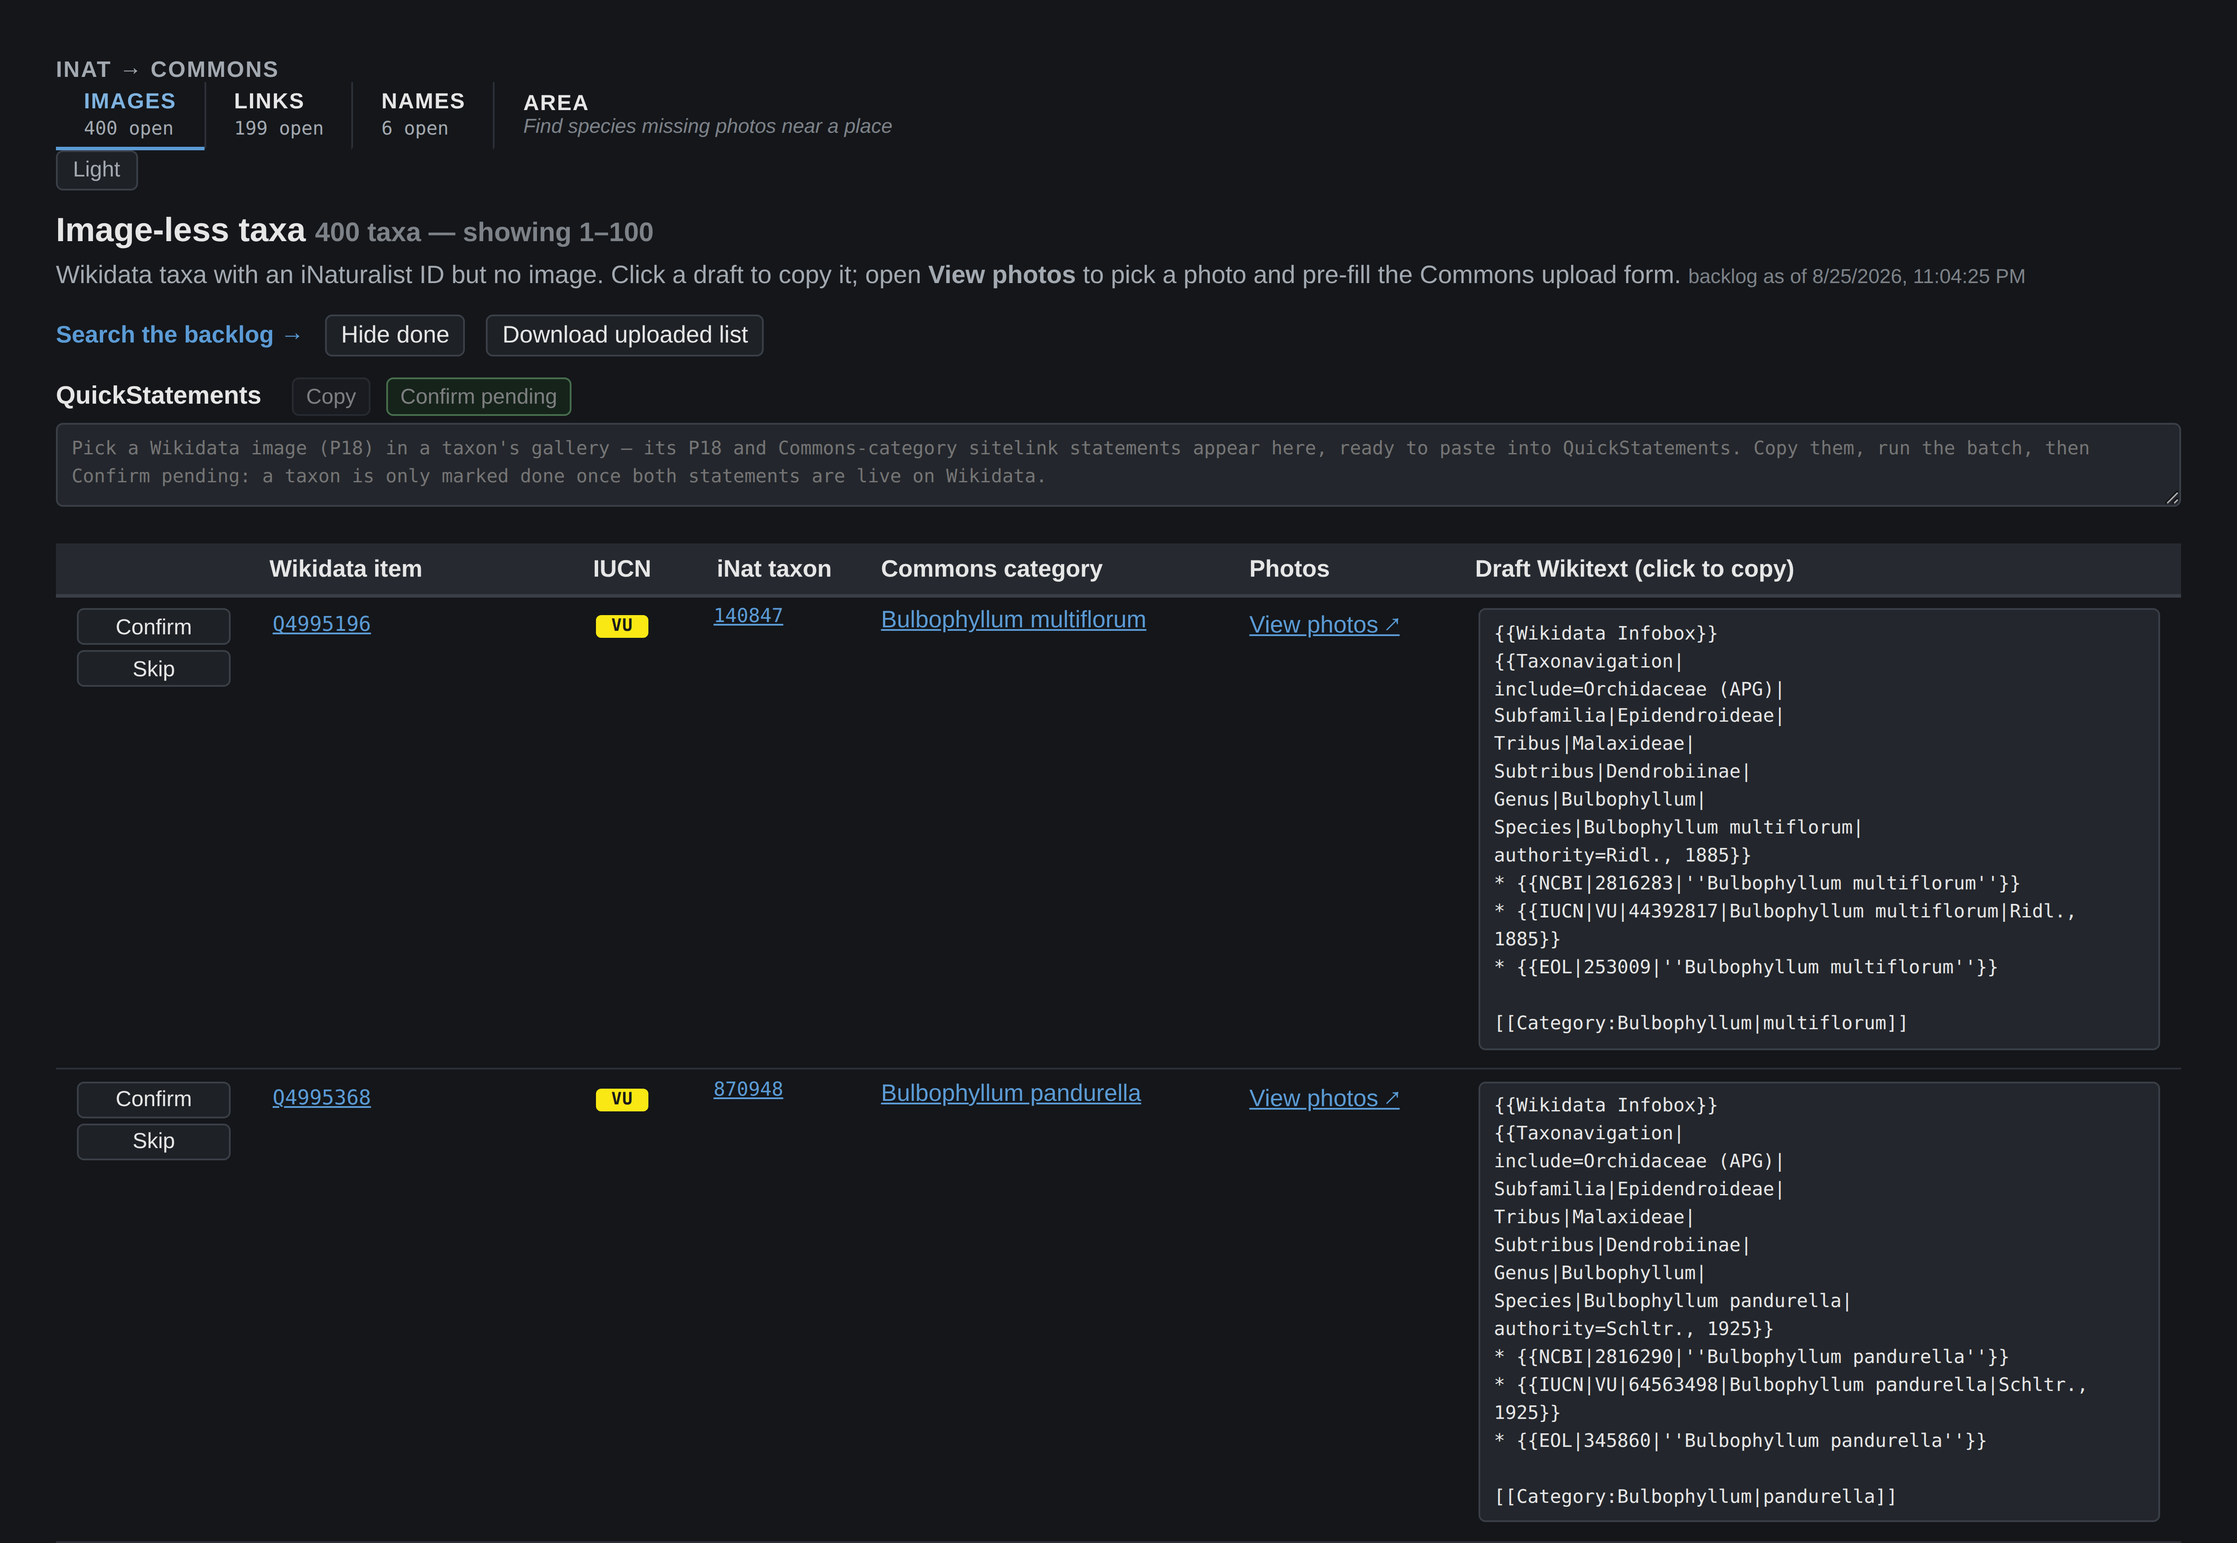
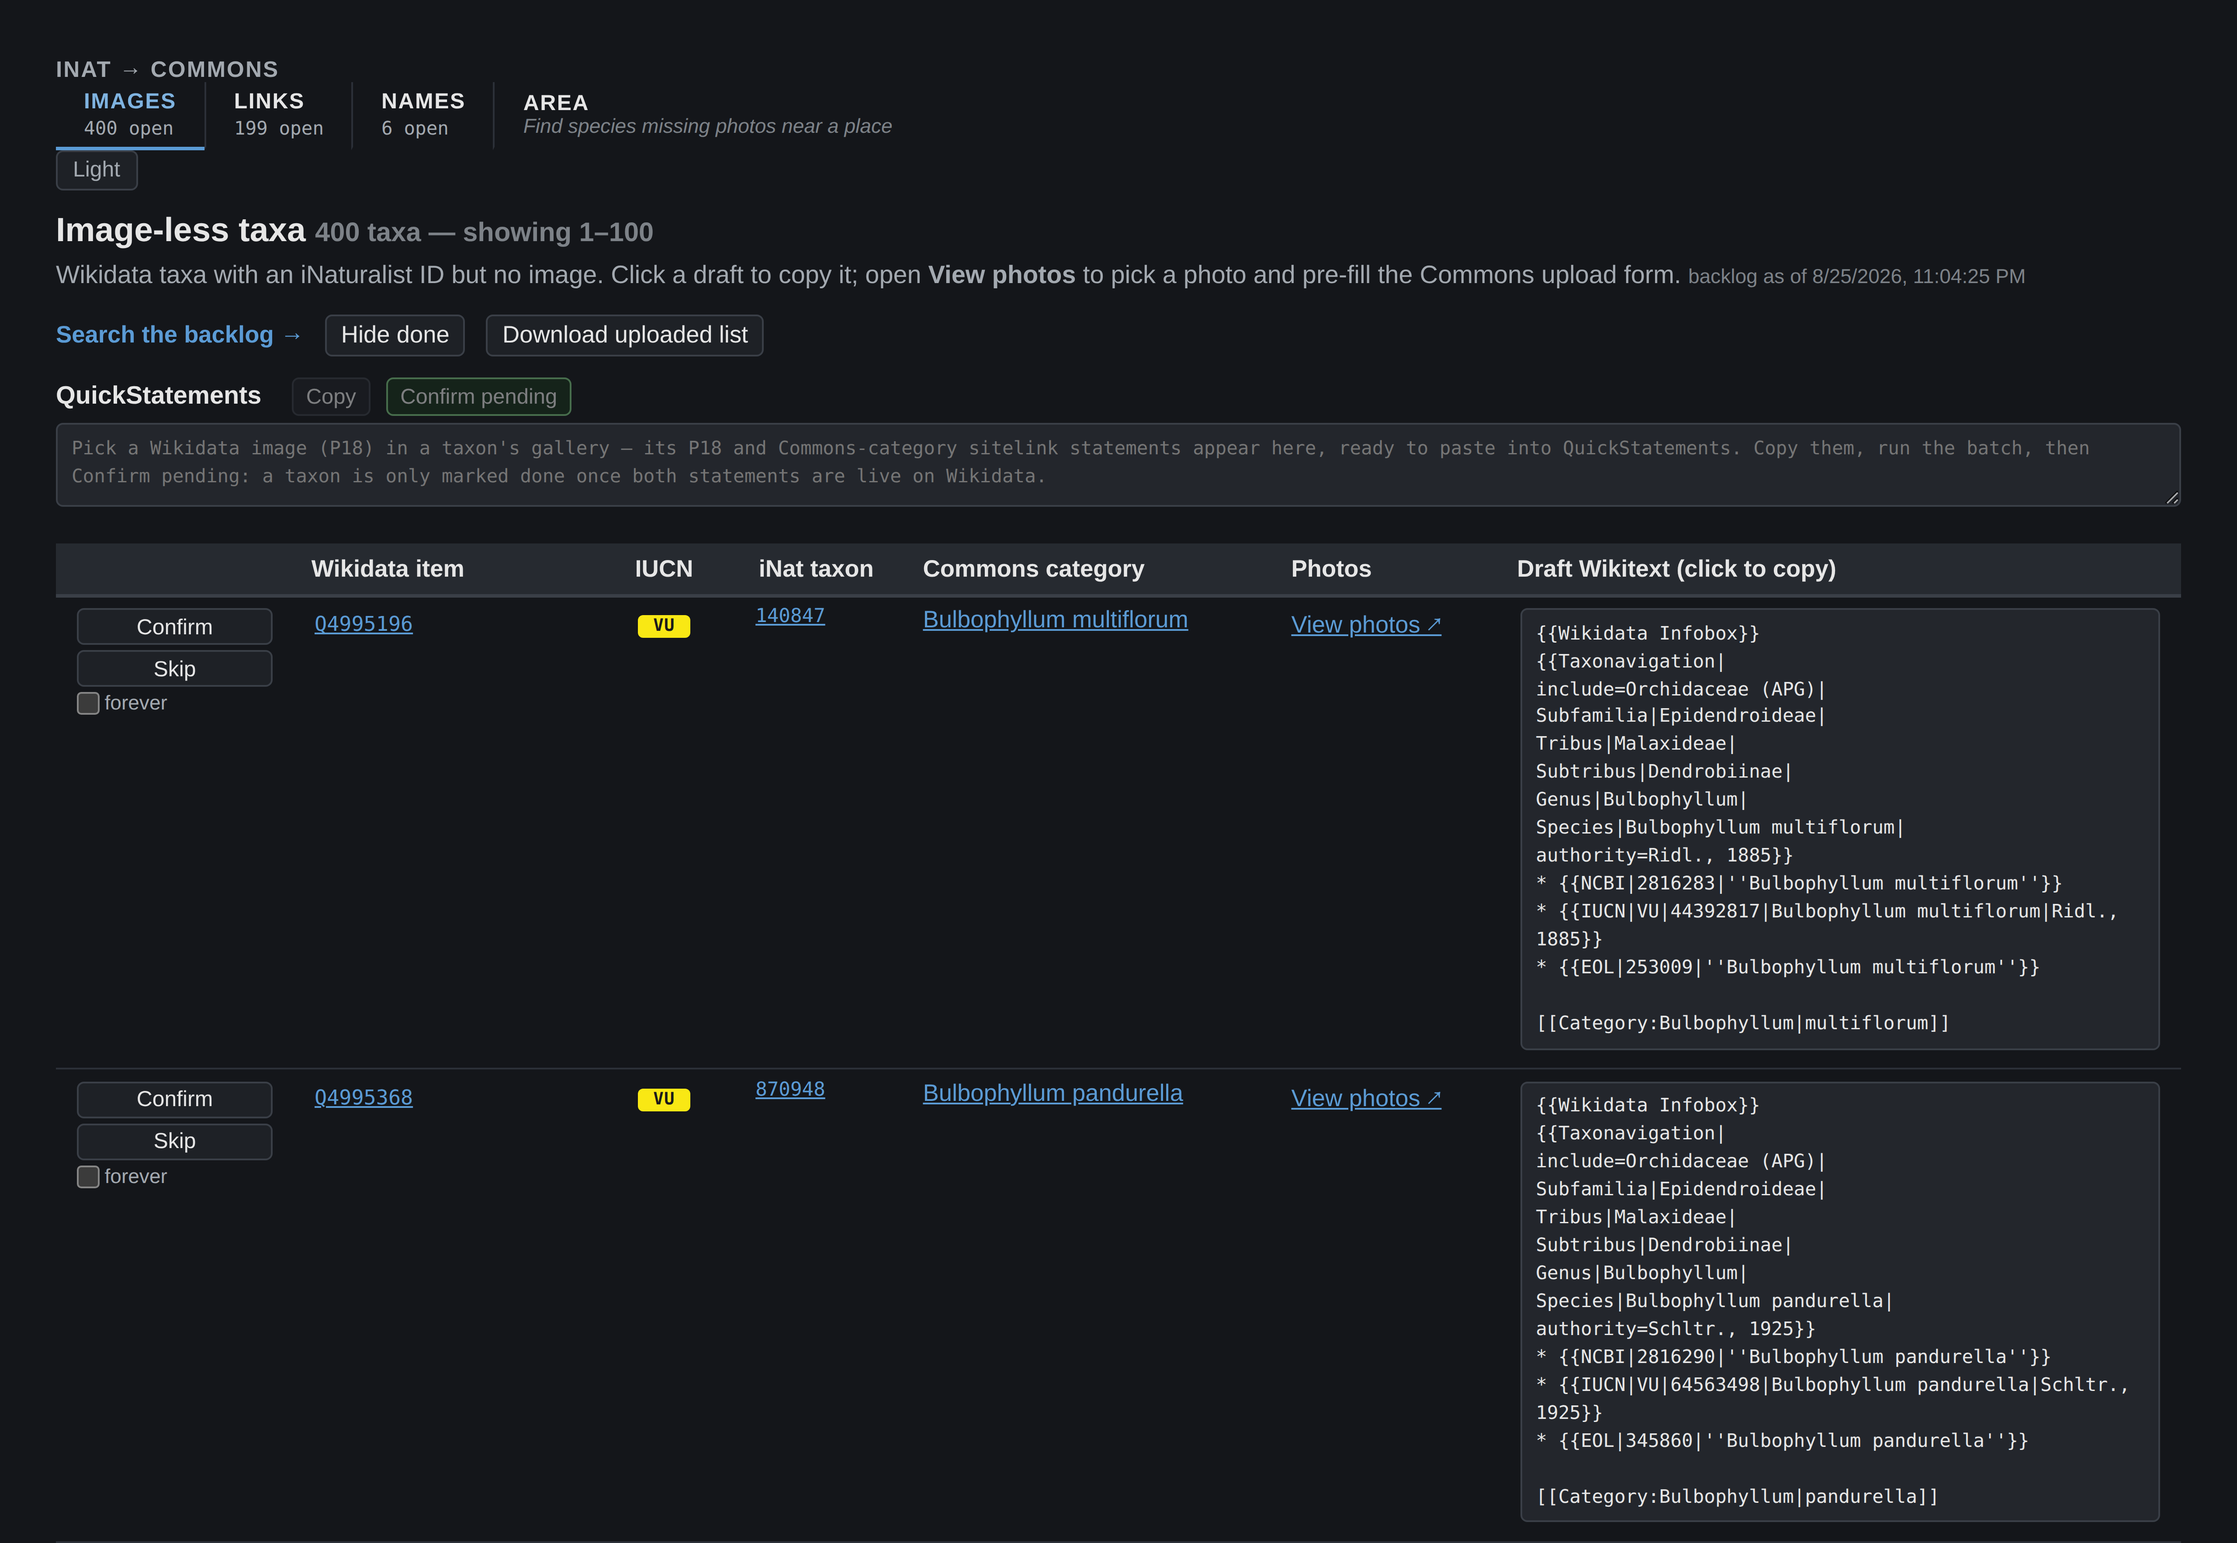
Add per-client skip/unskip UI, and regenerate docs screenshots (slice 8b)
web/js/clientId.js generates and persists an opaque per-browser id
(localStorage), sent on every skip/unskip and worklist/QuickStatements fetch.
Skip gains a "forever" checkbox for a global (permanent-fact) skip; skipping
without it leaves the row dimmed with an inline Undo that calls the new
unskip endpoint — no re-render needed, since the row never actually left the
worklist API's response shape, only this client's own view of it.

The conflict-review skip button (links.js) gets the same clientId wiring but
no inline Undo: that row is removed from the DOM outright on skip, so
reversing one means reloading the review section, and a competing-claim skip
is a much rarer path than the main worklist's.

Screenshots regenerated per CLAUDE.md's standing rule (npm run screenshots
against a throwaway copy of the real backlog) — the new "forever" checkbox
is visible in worklist.png, links.png and names.png.

diff --git a/web/js/rows.js b/web/js/rows.js
@@ -6,6 +6,8 @@
 // Nothing here reaches for an element by id: the table is passed in. That is what lets two pages
 // hold one of these each without their rows fighting over `document`.
 
+import { clientId } from './clientId.js';
+
 const INAT_OBS = (id) =>
     `https://www.inaturalist.org/observations?taxon_id=${id}&photo_license=cc0%2Ccc-by%2Ccc-by-sa&quality_grade=research`;
 const INAT_TAXON = (id) => `https://www.inaturalist.org/taxa/${id}`;
@@ -44,6 +46,14 @@ export const REASONS = {
     not_found: 'This finding is no longer in the backlog — reload.',
 };
 
+/** Shared by all three row kinds, so the global-skip checkbox and its wording live in one place. */
+function skipControlsHtml() {
+    return `<button class="skip-btn" title="Skip — hidden from your worklist; settles for everyone once every tester has skipped it too">Skip</button>
+      <label class="skip-global" title="This is a permanent fact (e.g. no usable photo exists) — settles it immediately, not just for you">
+        <input type="checkbox" class="skip-global-cb"> forever
+      </label>`;
+}
+
 function imageRowHtml(t) {
     const inatCell = t.inatTaxonId
         ? `<a href="${escapeHtml(INAT_OBS(t.inatTaxonId))}" target="_blank">${escapeHtml(t.inatTaxonId)}</a>`
@@ -61,7 +71,7 @@ function imageRowHtml(t) {
     return `<tr id="row-${escapeHtml(t.qid)}" data-qid="${escapeHtml(t.qid)}" data-id="${t.id}">
       <td class="check-col">
         <button class="confirm-btn" title="Check live Wikidata for the image and the Commons category">Confirm</button>
-        <button class="skip-btn" title="Never offer this taxon again">Skip</button>
+        ${skipControlsHtml()}
       </td>
       <td class="wd-col"><a href="${escapeHtml(t.wdUri)}" target="_blank">${escapeHtml(t.qid)}</a></td>
       <td class="iucn-col">${iucnBadge(t.iucn)}</td>
@@ -92,7 +102,7 @@ function linkRowHtml(t) {
     return `<tr id="row-${escapeHtml(t.qid)}" data-qid="${escapeHtml(t.qid)}" data-id="${t.id}">
       <td class="check-col">
         <button class="confirm-btn" title="Check live Wikidata for the P3151 statement">Confirm</button>
-        <button class="skip-btn" title="Never offer this taxon again">Skip</button>
+        ${skipControlsHtml()}
       </td>
       <td class="wd-col"><a href="${escapeHtml(t.wdUri)}" target="_blank">${escapeHtml(t.qid)}</a></td>
       <td class="iucn-col">${iucnBadge(t.iucn)}</td>
@@ -134,7 +144,7 @@ function nameRowHtml(t) {
     return `<tr id="row-${escapeHtml(t.qid)}" data-qid="${escapeHtml(t.qid)}" data-id="${t.id}">
       <td class="check-col">
         <button class="confirm-btn" title="Check live Wikidata for these names">Confirm</button>
-        <button class="skip-btn" title="Never offer this taxon again">Skip</button>
+        ${skipControlsHtml()}
       </td>
       <td class="wd-col"><a href="${escapeHtml(t.wdUri)}" target="_blank">${escapeHtml(t.qid)}</a></td>
       <td class="iucn-col">${iucnBadge(t.iucn)}</td>
@@ -222,17 +232,44 @@ export function createRowTable({ tbody, postJson, hidingDone = () => false, onSt
         }
     }
 
+    /** A skip leaves the row in the DOM either way (settled globally or just hidden from this
+     *  client) — dimming it and offering Undo needs no re-render, unlike the reload a settled
+     *  skip actually needs to leave the backlog for good. */
+    function renderSkipped(row, settled) {
+        row.classList.add('done');
+        if (hidingDone()) row.classList.add('hide-done');
+        const msg = row.querySelector('.row-msg');
+        msg.innerHTML = (settled
+            ? 'Skipped — it will not be offered again. '
+            : 'Skipped for you — still open for other testers. ')
+            + '<button type="button" class="undo-skip-btn">Undo</button>';
+        msg.className = 'row-msg ok';
+    }
+
     async function skip(row) {
         const id = Number(row.dataset.id);
+        const global = /** @type {HTMLInputElement|null} */ (row.querySelector('.skip-global-cb'))?.checked ?? false;
         try {
-            await postJson(`api/findings/${id}/skip`, {});
-            row.classList.add('done');
-            if (hidingDone()) row.classList.add('hide-done');
-            row.querySelector('.row-msg').textContent = 'Skipped — it will not be offered again.';
-            row.querySelector('.row-msg').className = 'row-msg ok';
+            const result = await postJson(`api/findings/${id}/skip`, { clientId: clientId(), global });
+            renderSkipped(row, result.status === 'skipped');
             onChange();
         } catch (e) {
             onStatus(`Could not skip: ${e.message}`);
+        }
+    }
+
+    async function undoSkip(row) {
+        const id = Number(row.dataset.id);
+        try {
+            await postJson(`api/findings/${id}/unskip`, { clientId: clientId() });
+            row.classList.remove('done', 'hide-done');
+            const cb = /** @type {HTMLInputElement|null} */ (row.querySelector('.skip-global-cb'));
+            if (cb) cb.checked = false;
+            row.querySelector('.row-msg').textContent = '';
+            row.querySelector('.row-msg').className = 'row-msg';
+            onChange();
+        } catch (e) {
+            onStatus(`Could not undo skip: ${e.message}`);
         }
     }
 
@@ -248,6 +285,7 @@ export function createRowTable({ tbody, postJson, hidingDone = () => false, onSt
             return;
         }
         if (row && target.matches('.skip-btn')) return skip(row);
+        if (row && target.matches('.undo-skip-btn')) return undoSkip(row);
 
         const draft = target.closest('.draft');
         if (draft) copyDraft(draft);

diff --git a/web/js/links.js b/web/js/links.js
@@ -11,6 +11,7 @@ import { getJson, postJson } from './api.js';
 import { createRowTable, escapeHtml } from './rows.js';
 import { createPager, PAGE_SIZE } from './pager.js';
 import { mountShell } from './shell.js';
+import { clientId } from './clientId.js';
 
 mountShell('link');
 
@@ -50,7 +51,8 @@ function toggleHideDone() {
 const QS_FETCH_LIMIT = 2000;
 
 async function autoEligibleOpen() {
-    const { taxa } = await getJson(`api/findings?kind=link&status=open&limit=${QS_FETCH_LIMIT}`);
+    const { taxa } = await getJson(
+        `api/findings?kind=link&status=open&limit=${QS_FETCH_LIMIT}&clientId=${encodeURIComponent(clientId())}`);
     return taxa.filter((t) => t.payload?.autoEligible === true);
 }
 
@@ -219,11 +221,16 @@ async function pickCandidate(groupEl, inatId) {
     }
 }
 
+// A conflict candidate's Skip is a much rarer path than the main worklist's (one competing claim,
+// not "every tester"), and this group is removed from the DOM outright on skip — so unlike
+// rows.js's skip(), there is no inline Undo here; reversing one means reloading the review section.
 async function skipReviewRow(groupEl, id) {
     const msg = groupEl.querySelector('.review-msg');
     try {
-        await postJson(`api/findings/${id}/skip`, {});
-        msg.textContent = 'Skipped — it will not be offered again.';
+        const result = await postJson(`api/findings/${id}/skip`, { clientId: clientId() });
+        msg.textContent = result.status === 'skipped'
+            ? 'Skipped — it will not be offered again.'
+            : 'Skipped for you — still open for other testers.';
         msg.className = 'review-msg ok';
         groupEl.remove();
         $('review-count').textContent = --reviewCount ? `(${reviewCount})` : '';
@@ -237,7 +244,8 @@ async function skipReviewRow(groupEl, id) {
 
 async function loadWorklist() {
     try {
-        const data = await getJson(`api/findings?kind=link&status=open&limit=${PAGE_SIZE}&offset=${offset}`);
+        const data = await getJson(
+            `api/findings?kind=link&status=open&limit=${PAGE_SIZE}&offset=${offset}&clientId=${encodeURIComponent(clientId())}`);
         const taxa = data.taxa || [];
 
         const fallback = pager.fallbackOffset(data);

diff --git a/web/css/styles.css b/web/css/styles.css
@@ -416,7 +416,7 @@ table { border-collapse: collapse; width: 100%; }
 th { text-align: left; padding: 0.5em 0.75em; background: var(--surface-alt);
      border-bottom: 2px solid var(--edge); font-size: 0.85em; }
 td { vertical-align: top; padding: 0.4em 0.75em; border-bottom: 1px solid var(--rule); }
-.check-col { width: 5.5em; }
+.check-col { width: 7em; }
 .check-col button {
   display: block; width: 100%; margin-bottom: 0.25em;
   font-size: 0.78em; padding: 0.2em 0.4em; cursor: pointer;
@@ -424,9 +424,20 @@ td { vertical-align: top; padding: 0.4em 0.75em; border-bottom: 1px solid var(--
 }
 .confirm-btn { border-color: var(--good); background: var(--good-bg); }
 .check-col button:disabled { opacity: 0.5; cursor: default; }
+/* "forever" (a global/permanent skip) rides along next to Skip rather than a separate control, so
+   it is a choice made in the same click, not a second decision on a second row. */
+.skip-global {
+  display: flex; align-items: center; gap: 0.25em; margin-top: 0.15em;
+  font-size: 0.72em; color: var(--muted-ink); cursor: pointer;
+}
+.skip-global input { margin: 0; }
 .row-msg { display: block; margin-top: 0.35em; font-size: 0.8em; }
 .row-msg.ok { color: var(--ok); }
 .row-msg.warn { color: var(--warn); }
+.row-msg button {
+  font-size: 0.85em; padding: 0.1em 0.5em; margin-left: 0.3em; cursor: pointer;
+  border: 1px solid var(--edge); background: var(--surface); color: var(--ink); border-radius: 3px;
+}
 tr.done td { opacity: 0.35; }
 tr.done .draft { background: var(--surface-alt); cursor: default; }
 tr.hide-done { display: none; }

diff --git a/web/js/clientId.js b/web/js/clientId.js
@@ -1,0 +1,27 @@
+// An opaque, per-browser-profile id — not an identity or auth mechanism, just a label so the
+// server can tell "every known client has now skipped this" apart from "one person passed on it".
+// See docs/findings-db-roadmap.md's multi-user skip section (slice 8b) for why this exists: a
+// single global `skipped` status let one tester's Skip silently hide a taxon from everyone else.
+const KEY = 'winc-client-id';
+
+function generate() {
+    if (typeof crypto !== 'undefined' && crypto.randomUUID) return crypto.randomUUID();
+    // A browser/context without crypto.randomUUID (very old, or a non-secure context) still needs
+    // *an* opaque label — it does not need to be cryptographically unguessable to serve its
+    // purpose here.
+    return `c-${Date.now().toString(36)}-${Math.random().toString(36).slice(2)}`;
+}
+
+let cached = null;
+
+/** This browser profile's opaque id, generated once and persisted. */
+export function clientId() {
+    if (cached) return cached;
+    try {
+        cached = localStorage.getItem(KEY);
+        if (!cached) { cached = generate(); localStorage.setItem(KEY, cached); }
+    } catch {
+        cached = generate(); // private browsing / storage disabled: works for this page load only
+    }
+    return cached;
+}

diff --git a/web/js/names.js b/web/js/names.js
@@ -9,6 +9,7 @@ import { getJson, postJson } from './api.js';
 import { createRowTable, buildNameQuickStatements } from './rows.js';
 import { createPager, PAGE_SIZE } from './pager.js';
 import { mountShell } from './shell.js';
+import { clientId } from './clientId.js';
 
 mountShell('name');
 
@@ -48,7 +49,8 @@ function toggleHideDone() {
 const QS_FETCH_LIMIT = 2000;
 
 async function pendingOpen() {
-    const { taxa } = await getJson(`api/findings?kind=name&status=open&limit=${QS_FETCH_LIMIT}`);
+    const { taxa } = await getJson(
+        `api/findings?kind=name&status=open&limit=${QS_FETCH_LIMIT}&clientId=${encodeURIComponent(clientId())}`);
     return taxa;
 }
 
@@ -90,7 +92,8 @@ async function confirmPending() {
 
 async function loadWorklist() {
     try {
-        const data = await getJson(`api/findings?kind=name&status=open&limit=${PAGE_SIZE}&offset=${offset}`);
+        const data = await getJson(
+            `api/findings?kind=name&status=open&limit=${PAGE_SIZE}&offset=${offset}&clientId=${encodeURIComponent(clientId())}`);
         const taxa = data.taxa || [];
 
         const fallback = pager.fallbackOffset(data);

diff --git a/web/js/main.js b/web/js/main.js
@@ -18,6 +18,7 @@ import { legacy } from './cache.js';
 import { createRowTable } from './rows.js';
 import { createPager, PAGE_SIZE } from './pager.js';
 import { mountShell } from './shell.js';
+import { clientId } from './clientId.js';
 
 mountShell('images');
 
@@ -166,7 +167,7 @@ window.addEventListener('focus', () => {
 async function load() {
     try {
         const [data] = await Promise.all([
-            getJson(`api/findings?kind=image&status=open&limit=${PAGE_SIZE}&offset=${offset}`),
+            getJson(`api/findings?kind=image&status=open&limit=${PAGE_SIZE}&offset=${offset}&clientId=${encodeURIComponent(clientId())}`),
             state.load(),
         ]);
         const taxa = data.taxa || [];
